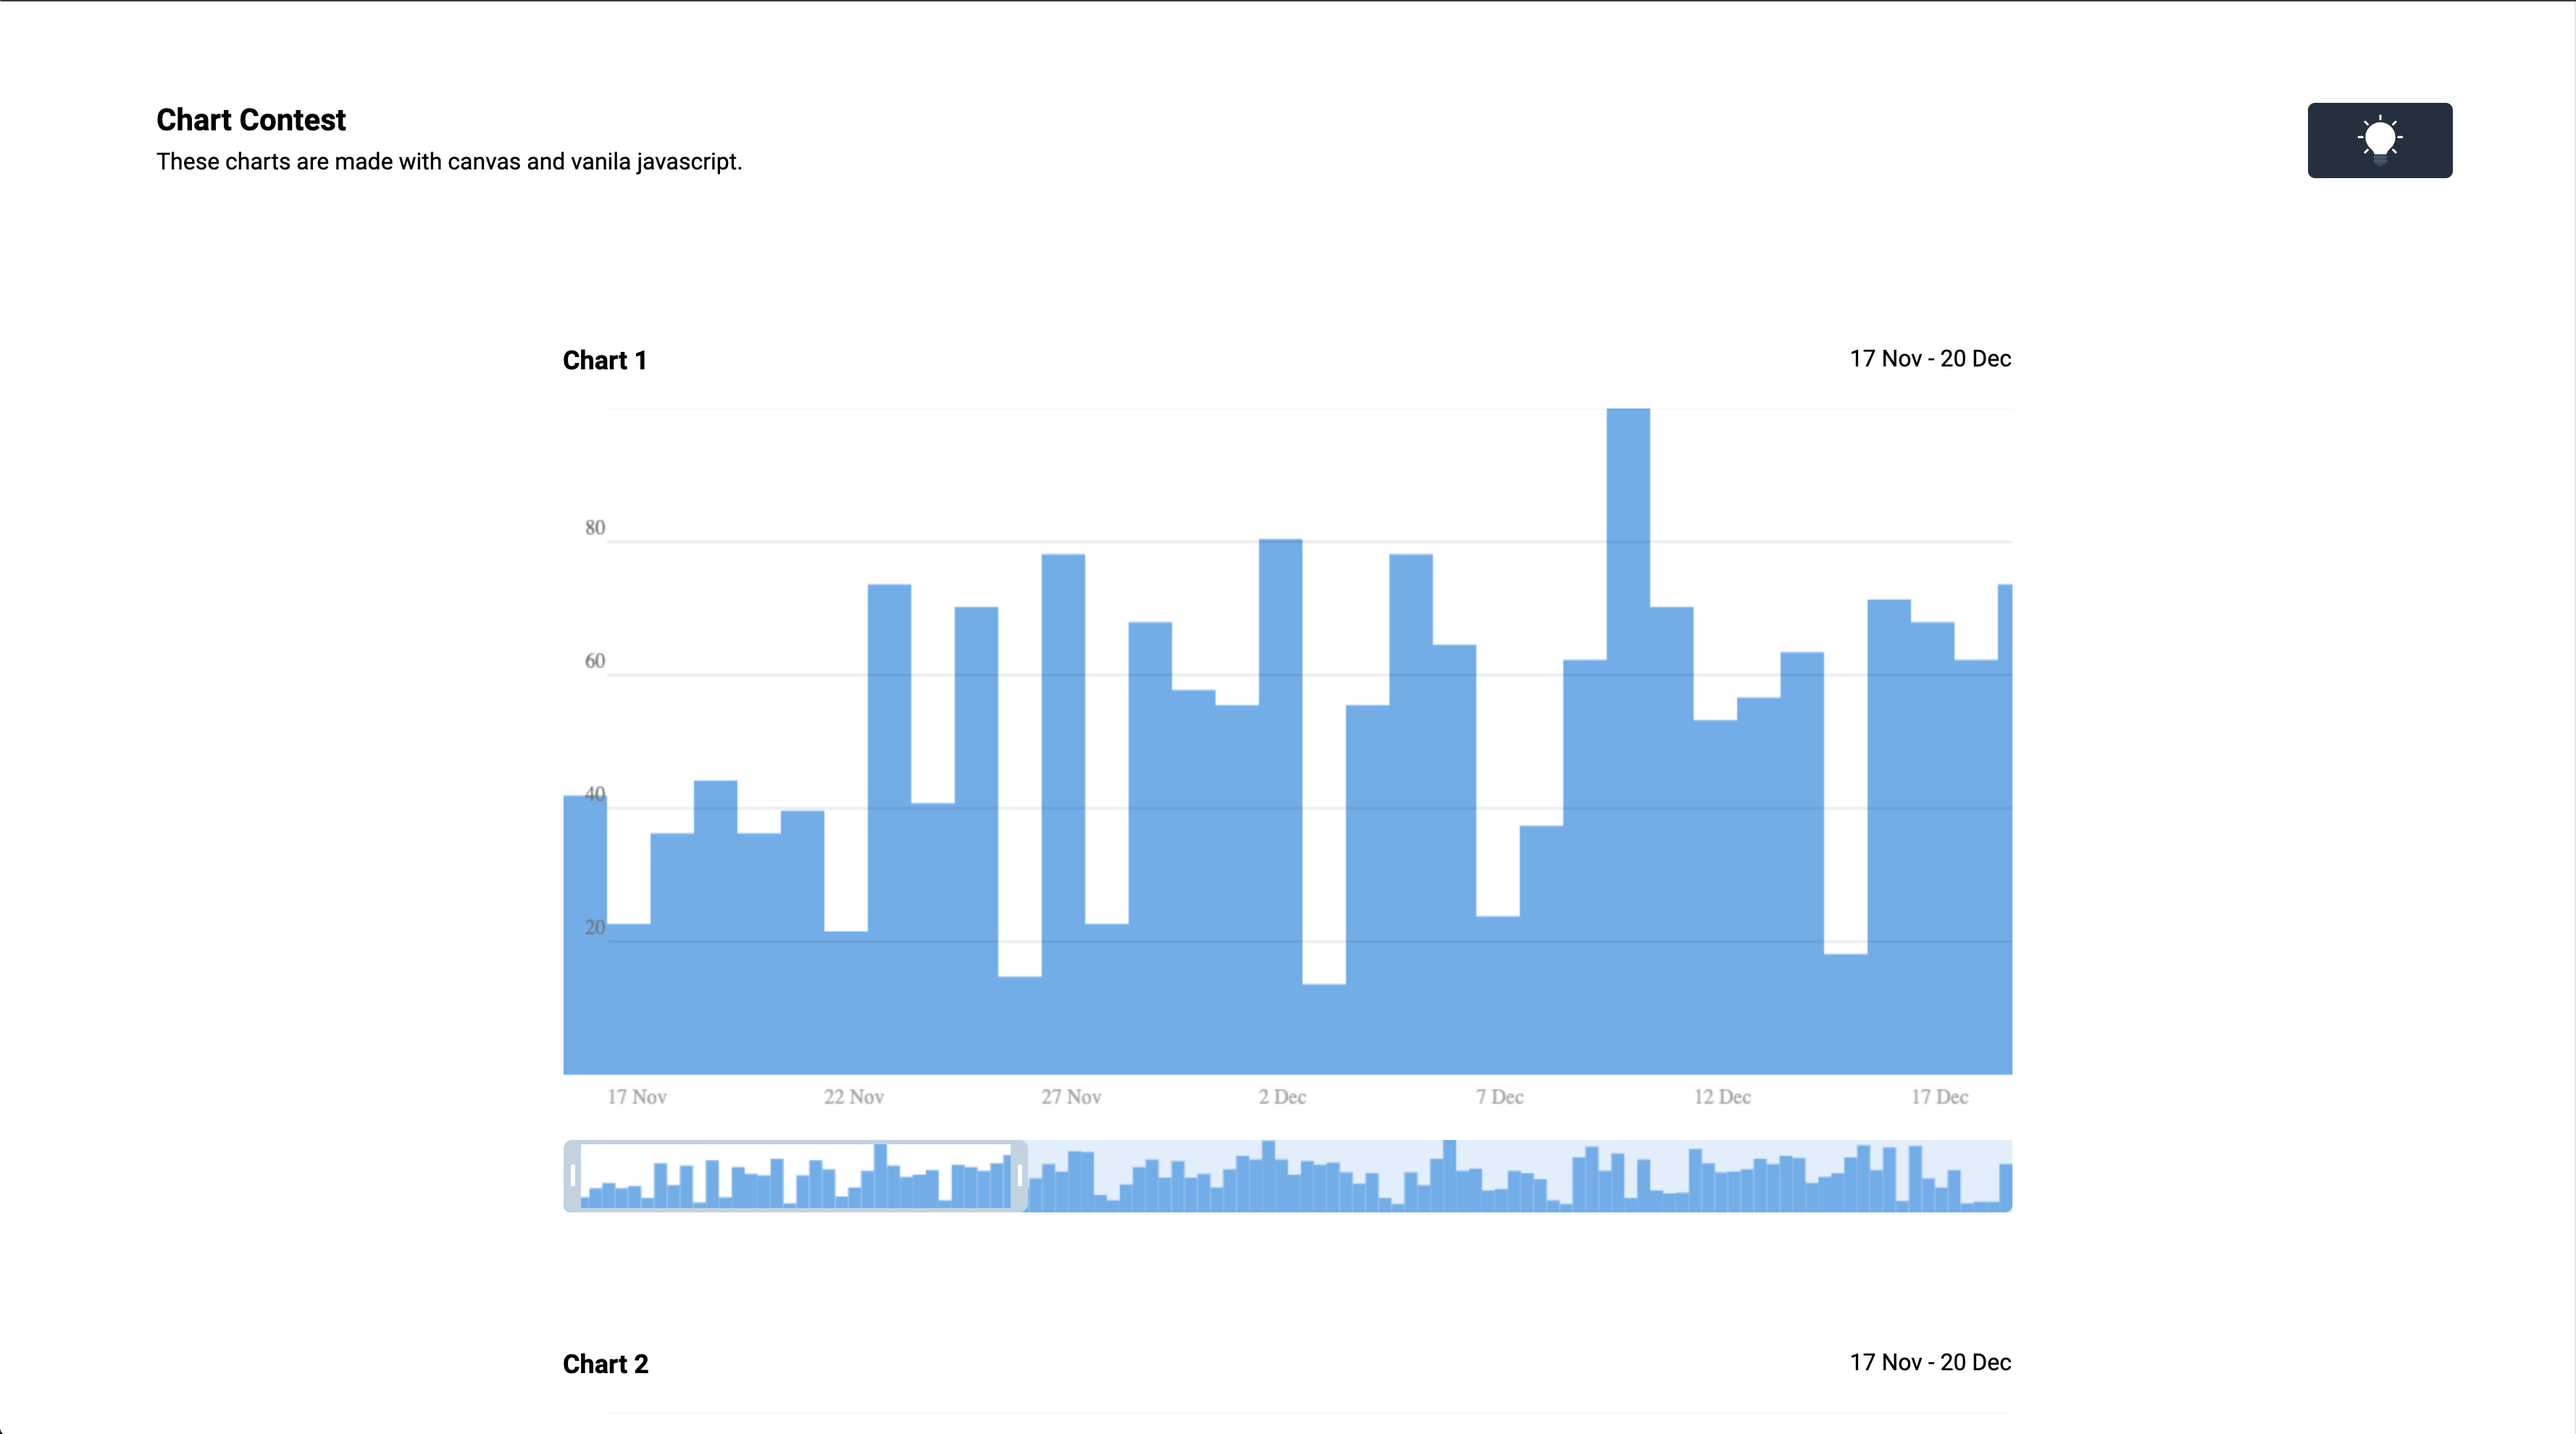
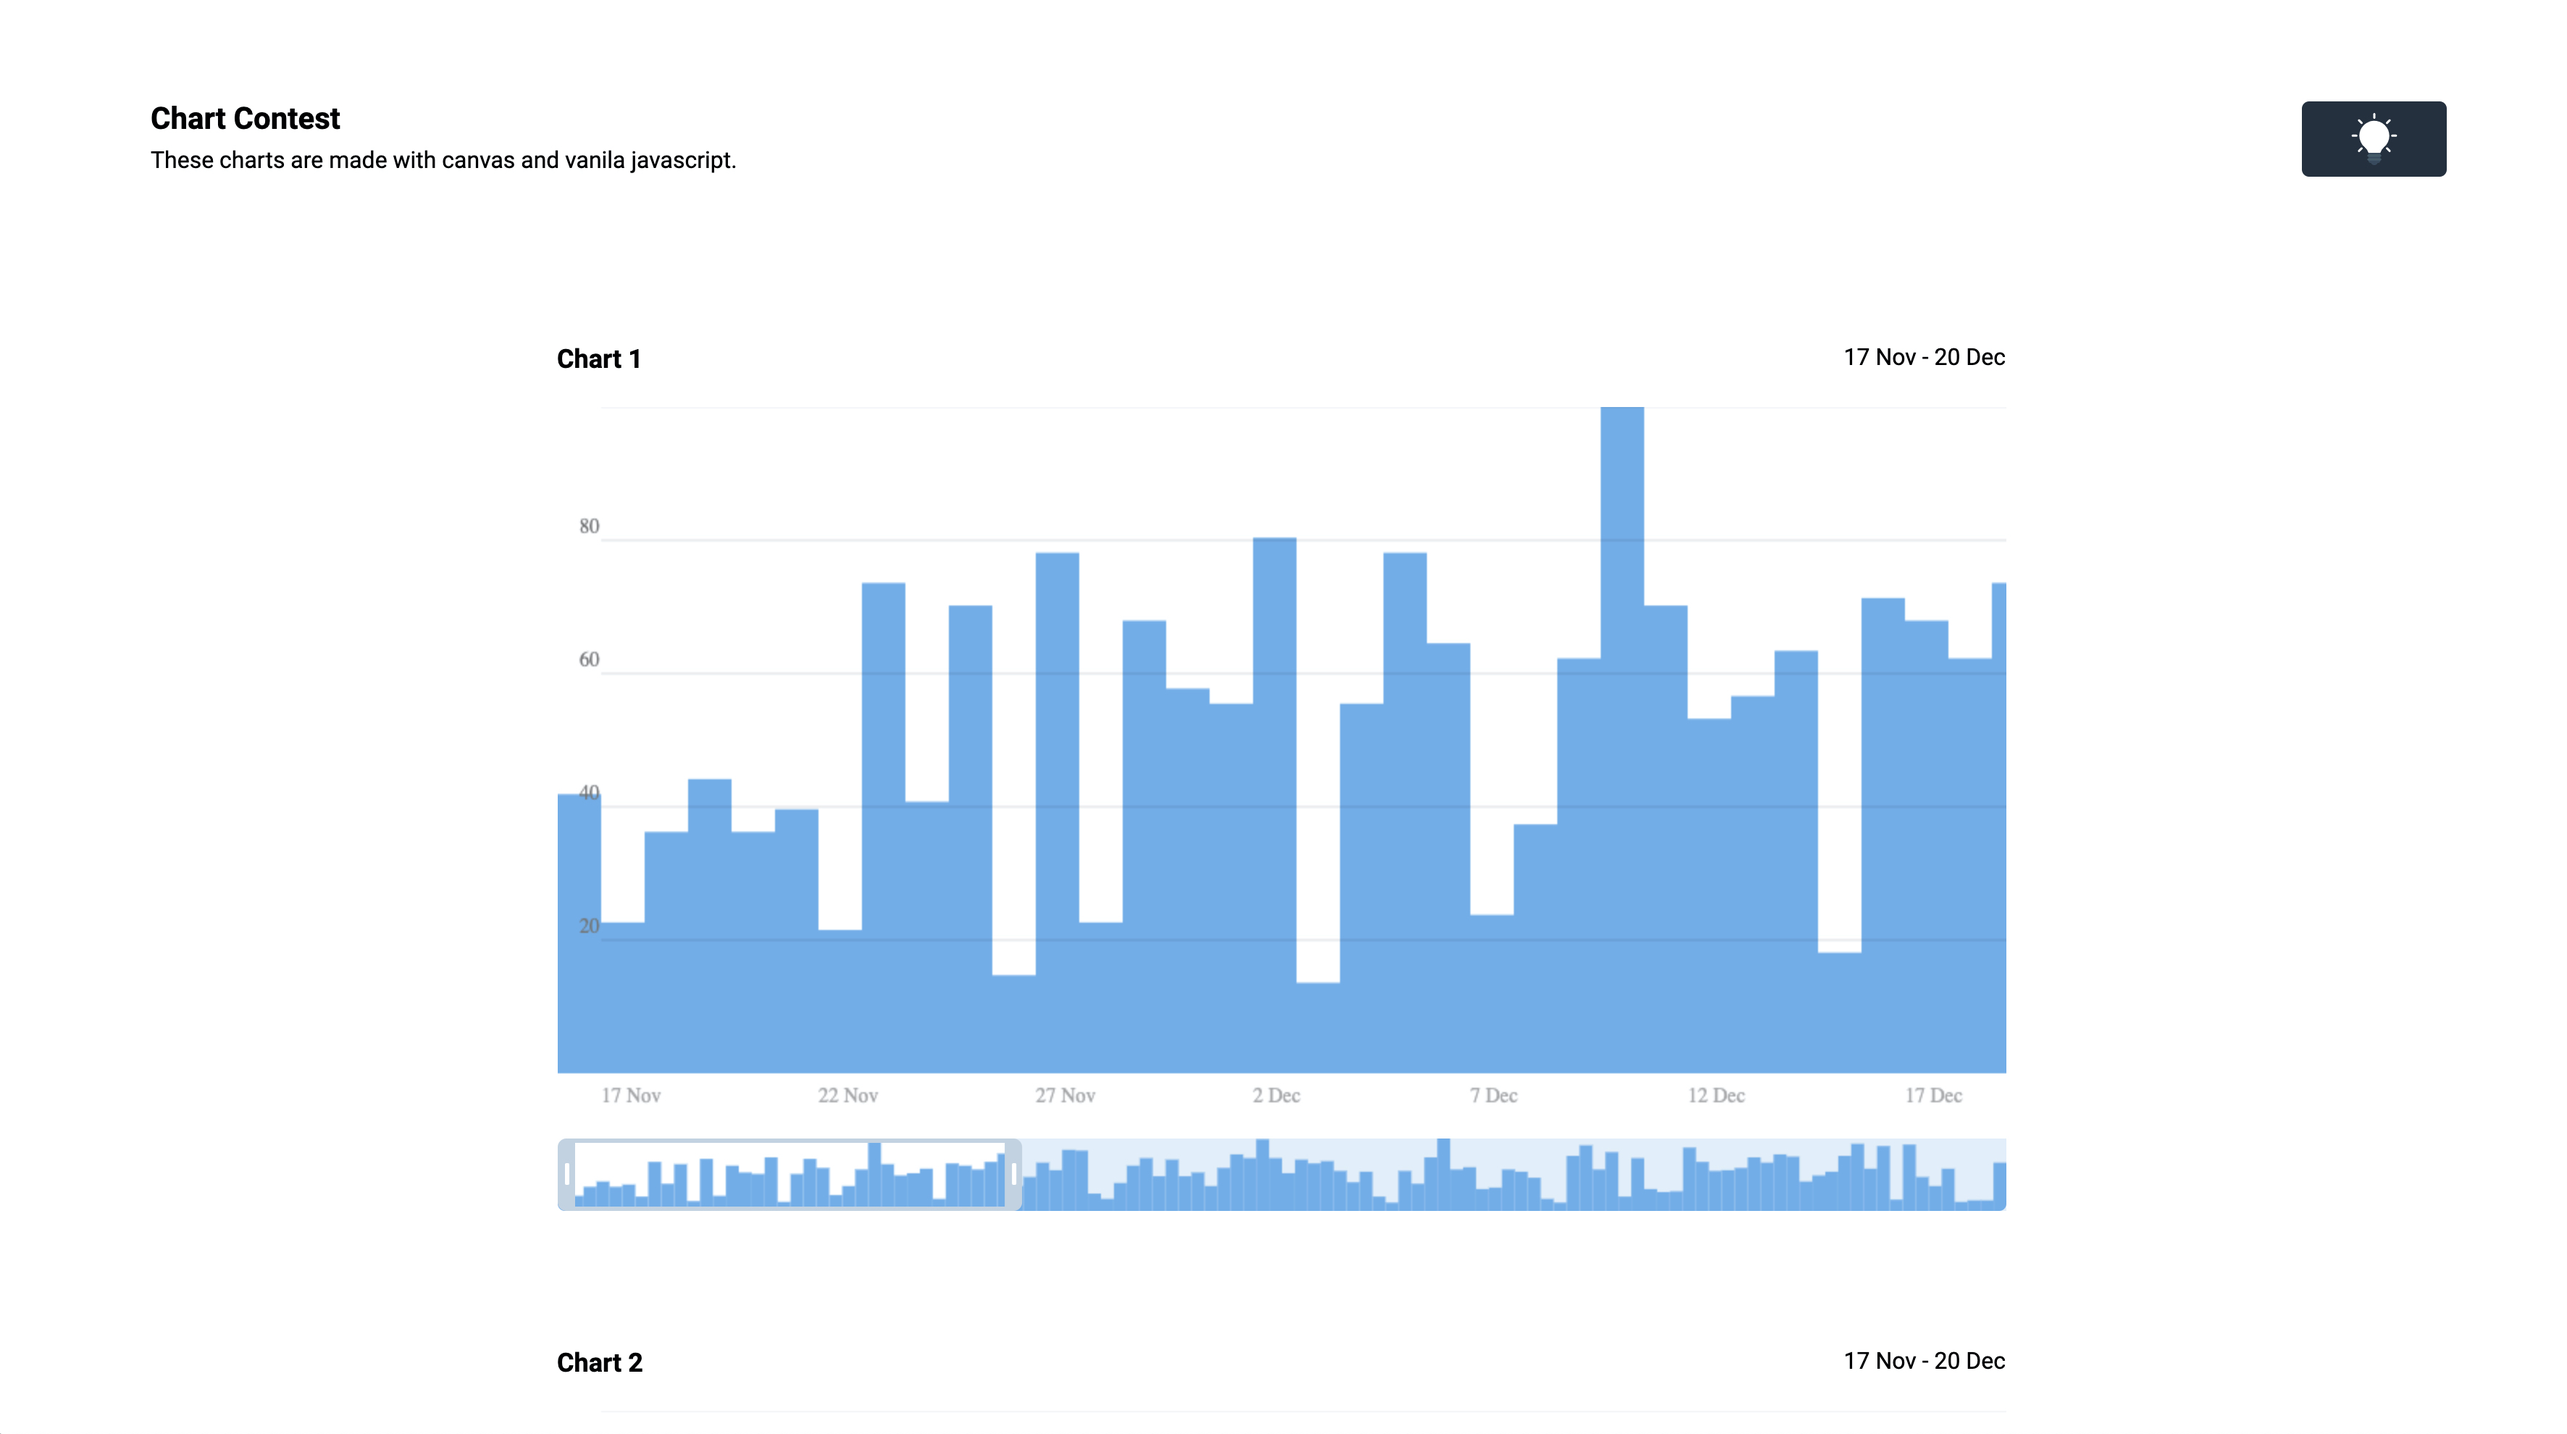
fix

diff --git a/src/components/slider/styles.css.ts b/src/components/slider/styles.css.ts
@@ -13,14 +13,16 @@ export const Wrapper = styled.div`
   max-height: 500px;
   overflow: hidden;
   border-radius: 10px;
-  background: #eee;
+  background: ${({ theme }) =>
+    `${theme === 'light' ? '#fff' : '#212121'}`};
   cursor: pointer;
+  -webkit-mask-image: -webkit-radial-gradient(white, black);
 `;
 
 export const Cover = styled.div`
   position: relative;
   height: 100%;
-  width: ${({ width }: Props) => `${width}px`};
+  width: ${({ width }: Props) => `${width+1}px`};
   order: ${({ order }: Props) => `${order}`};
 `;
 

diff --git a/src/components/slider/slider.tsx b/src/components/slider/slider.tsx
@@ -9,6 +9,7 @@ const DEFAULT_WIDTH = 919;
 export interface ISliderProps {
   images: string[];
   isVisible: boolean;
+  theme: string;
 }
 
 const Slider: React.FC<ISliderProps> = ({ images, isVisible }) => {
@@ -25,7 +26,7 @@ const Slider: React.FC<ISliderProps> = ({ images, isVisible }) => {
 
   useAnimationFrame(() => {
     if(visible) {
-      setTime(prevCount => (prevCount + 60 * 0.01) % MAX_PROCENT);
+     setTime(prevCount => (prevCount + 60 * 0.01) % MAX_PROCENT);
     }
   });
   

diff --git a/src/components/projects/blocks/project.js b/src/components/projects/blocks/project.js
@@ -36,7 +36,11 @@ function Project({ idx, item: { images, title, desc, tags = [], href } }) {
         <Container direction={direction}>
           <Wrapper direction={direction}>
             <div ref={divRef}>
-              <Slider images={componentImages} isVisible={isVisible} />
+              <Slider
+                images={componentImages}
+                isVisible={isVisible}
+                theme={theme}
+              />
             </div>
           </Wrapper>
 

diff --git a/gatsby-ssr.js b/gatsby-ssr.js
@@ -12,11 +12,9 @@ export const replaceRenderer = ({
   const ConnectedBody = () => <AppProvider>{bodyComponent}</AppProvider>;
   replaceBodyHTMLString(renderToString(<ConnectedBody />));
 
-  // Add styled-components in SSR/build
   const sheet = new ServerStyleSheet();
   const styleElement = sheet.getStyleElement();
   setHeadComponents(styleElement);
 };
 
-// Page Transitions
 export const wrapPageElement = wrapPageElementWithTransition;

diff --git a/gatsby-browser.js b/gatsby-browser.js
@@ -2,11 +2,9 @@ import React from 'react';
 import AppProvider from 'store/provider';
 import wrapPageElementWithTransition from 'helpers/wrapPageElement';
 
-// React Context in Browser
 // eslint-disable-next-line react/prop-types
 export const wrapRootElement = ({ element }) => {
   return <AppProvider>{element}</AppProvider>;
 };
 
-// Page Transitions
 export const wrapPageElement = wrapPageElementWithTransition;
